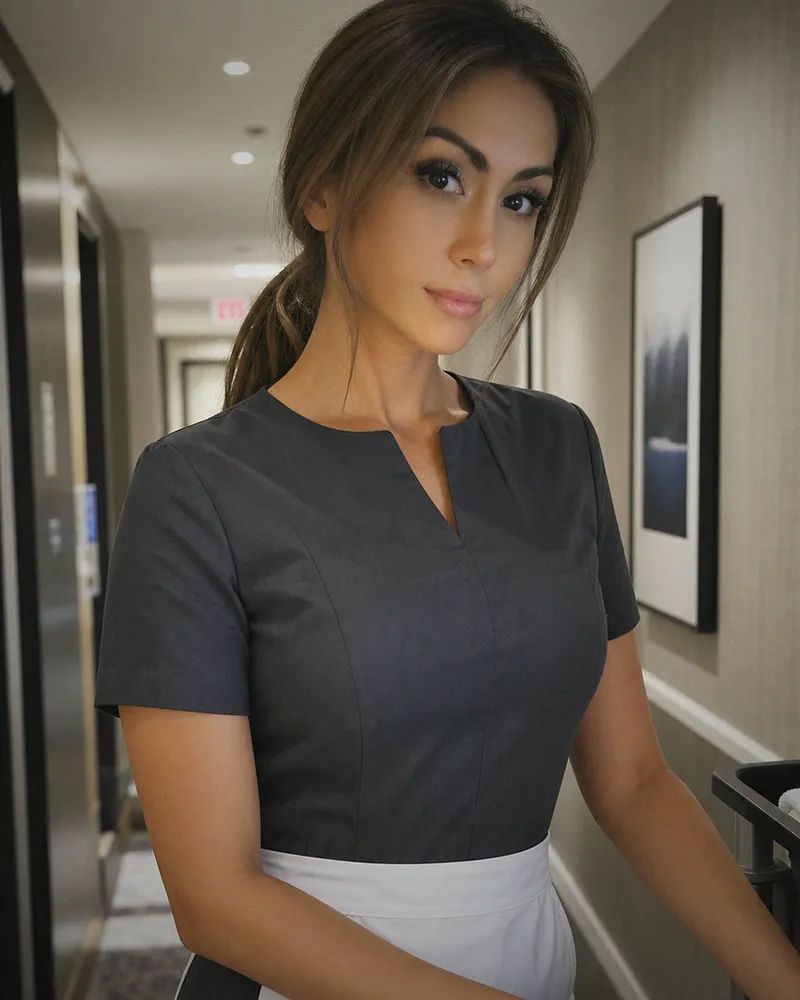
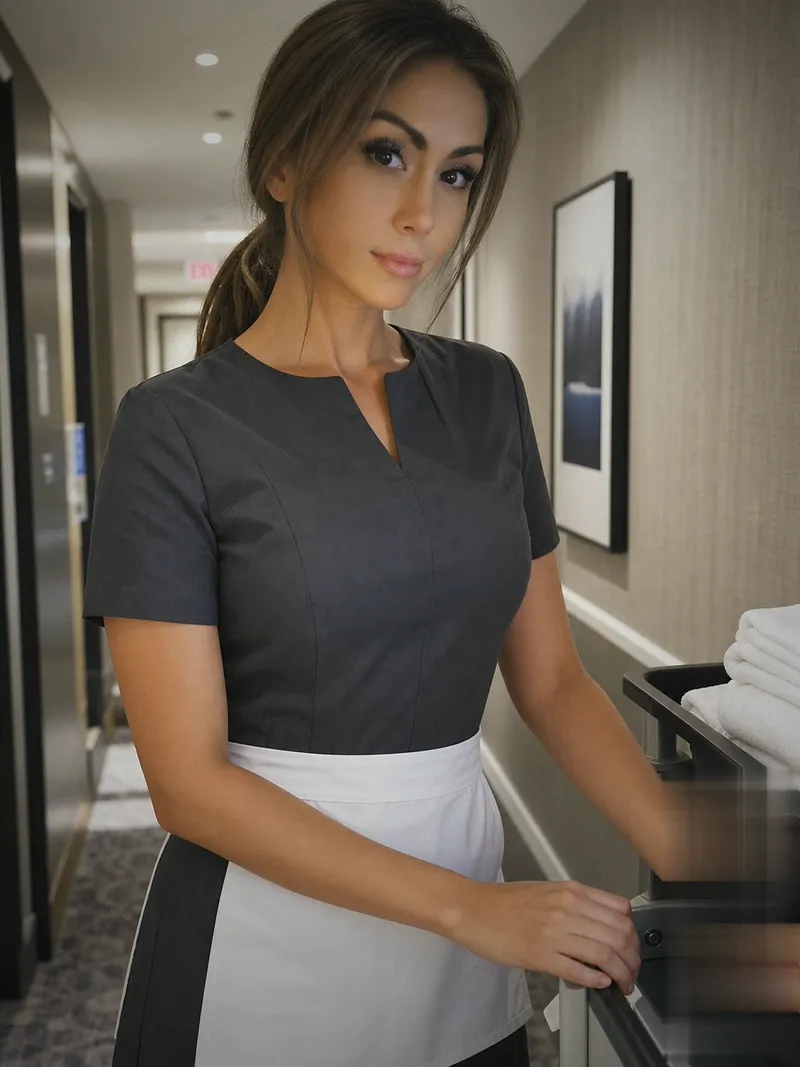
Publish site update

diff --git a/assets/css/site.css b/assets/css/site.css
@@ -1685,11 +1685,17 @@ button { font: inherit; }
    Holds either the placeholder below or Tiffany's actual photograph, at the
    SAME ratio, so dropping the real image in cannot change the page's layout.
 
-   4/5, not 4/3. A photograph of one person is a portrait; a landscape frame
-   either crops her head to a letterboxed sliver or forces the image to a
-   shape it was not taken in. The frame follows the subject. */
+   3/4, matching the source image's own 1086x1448 exactly, so the frame shows
+   ALL of the photograph and object-fit has nothing left to crop.
+
+   It was 4/5 first, which is the conventional portrait ratio — and that was
+   the mistake. A 4/5 frame is WIDER than a 3:4 source relative to its height,
+   so it could only be filled by cutting the photograph down, and no amount of
+   re-cropping inside it ever looked "zoomed out" because the subject kept
+   filling the frame. The frame's shape was the constraint, not the crop.
+   Match the source and the composition survives intact. */
 .ms-portrait,
-.ms-photo-slot { aspect-ratio: 4 / 5; }
+.ms-photo-slot { aspect-ratio: 3 / 4; }
 
 .ms-portrait {
   position: relative;
@@ -1706,9 +1712,10 @@ button { font: inherit; }
   width: 100%;
   height: 100%;
   object-fit: cover;
-  /* Faces sit above centre in most portraits, so a centred crop tends to cut
-     the top of the head. Bias the crop upward. */
-  object-position: 50% 32%;
+  /* Centred. The frame and the asset share a ratio now, so there is nothing
+     to crop and nothing to bias — this only matters if a future image comes in
+     at a different shape, where centring is the safer default. */
+  object-position: 50% 50%;
   display: block;
 }
 

diff --git a/about.html b/about.html
@@ -106,15 +106,15 @@
             <p class="ms-prose__action"><a class="ms-btn ms-btn--accent" href="services.html">See our services</a></p>
           </div>
 
-          <!-- Cropped to 4/5 in the asset itself, matching .ms-portrait's own
-               ratio, so object-fit has nothing left to crop and the framing is
-               the framing that was chosen rather than whatever the box decides. -->
+          <!-- The asset is the full 1086x1448 source at its own 3:4 ratio, and
+               .ms-portrait is 3:4 to match, so the frame shows the entire
+               photograph and object-fit has nothing left to crop. -->
           <div class="ms-portrait">
             <img
               src="assets/img/tiffany.webp"
               srcset="assets/img/tiffany.webp 500w, assets/img/tiffany@2x.webp 800w"
               sizes="(min-width: 56em) 30rem, 100vw"
-              width="500" height="625"
+              width="500" height="667"
               alt="Tiffany, the owner of Make it Squeaky">
           </div>
         </div>
